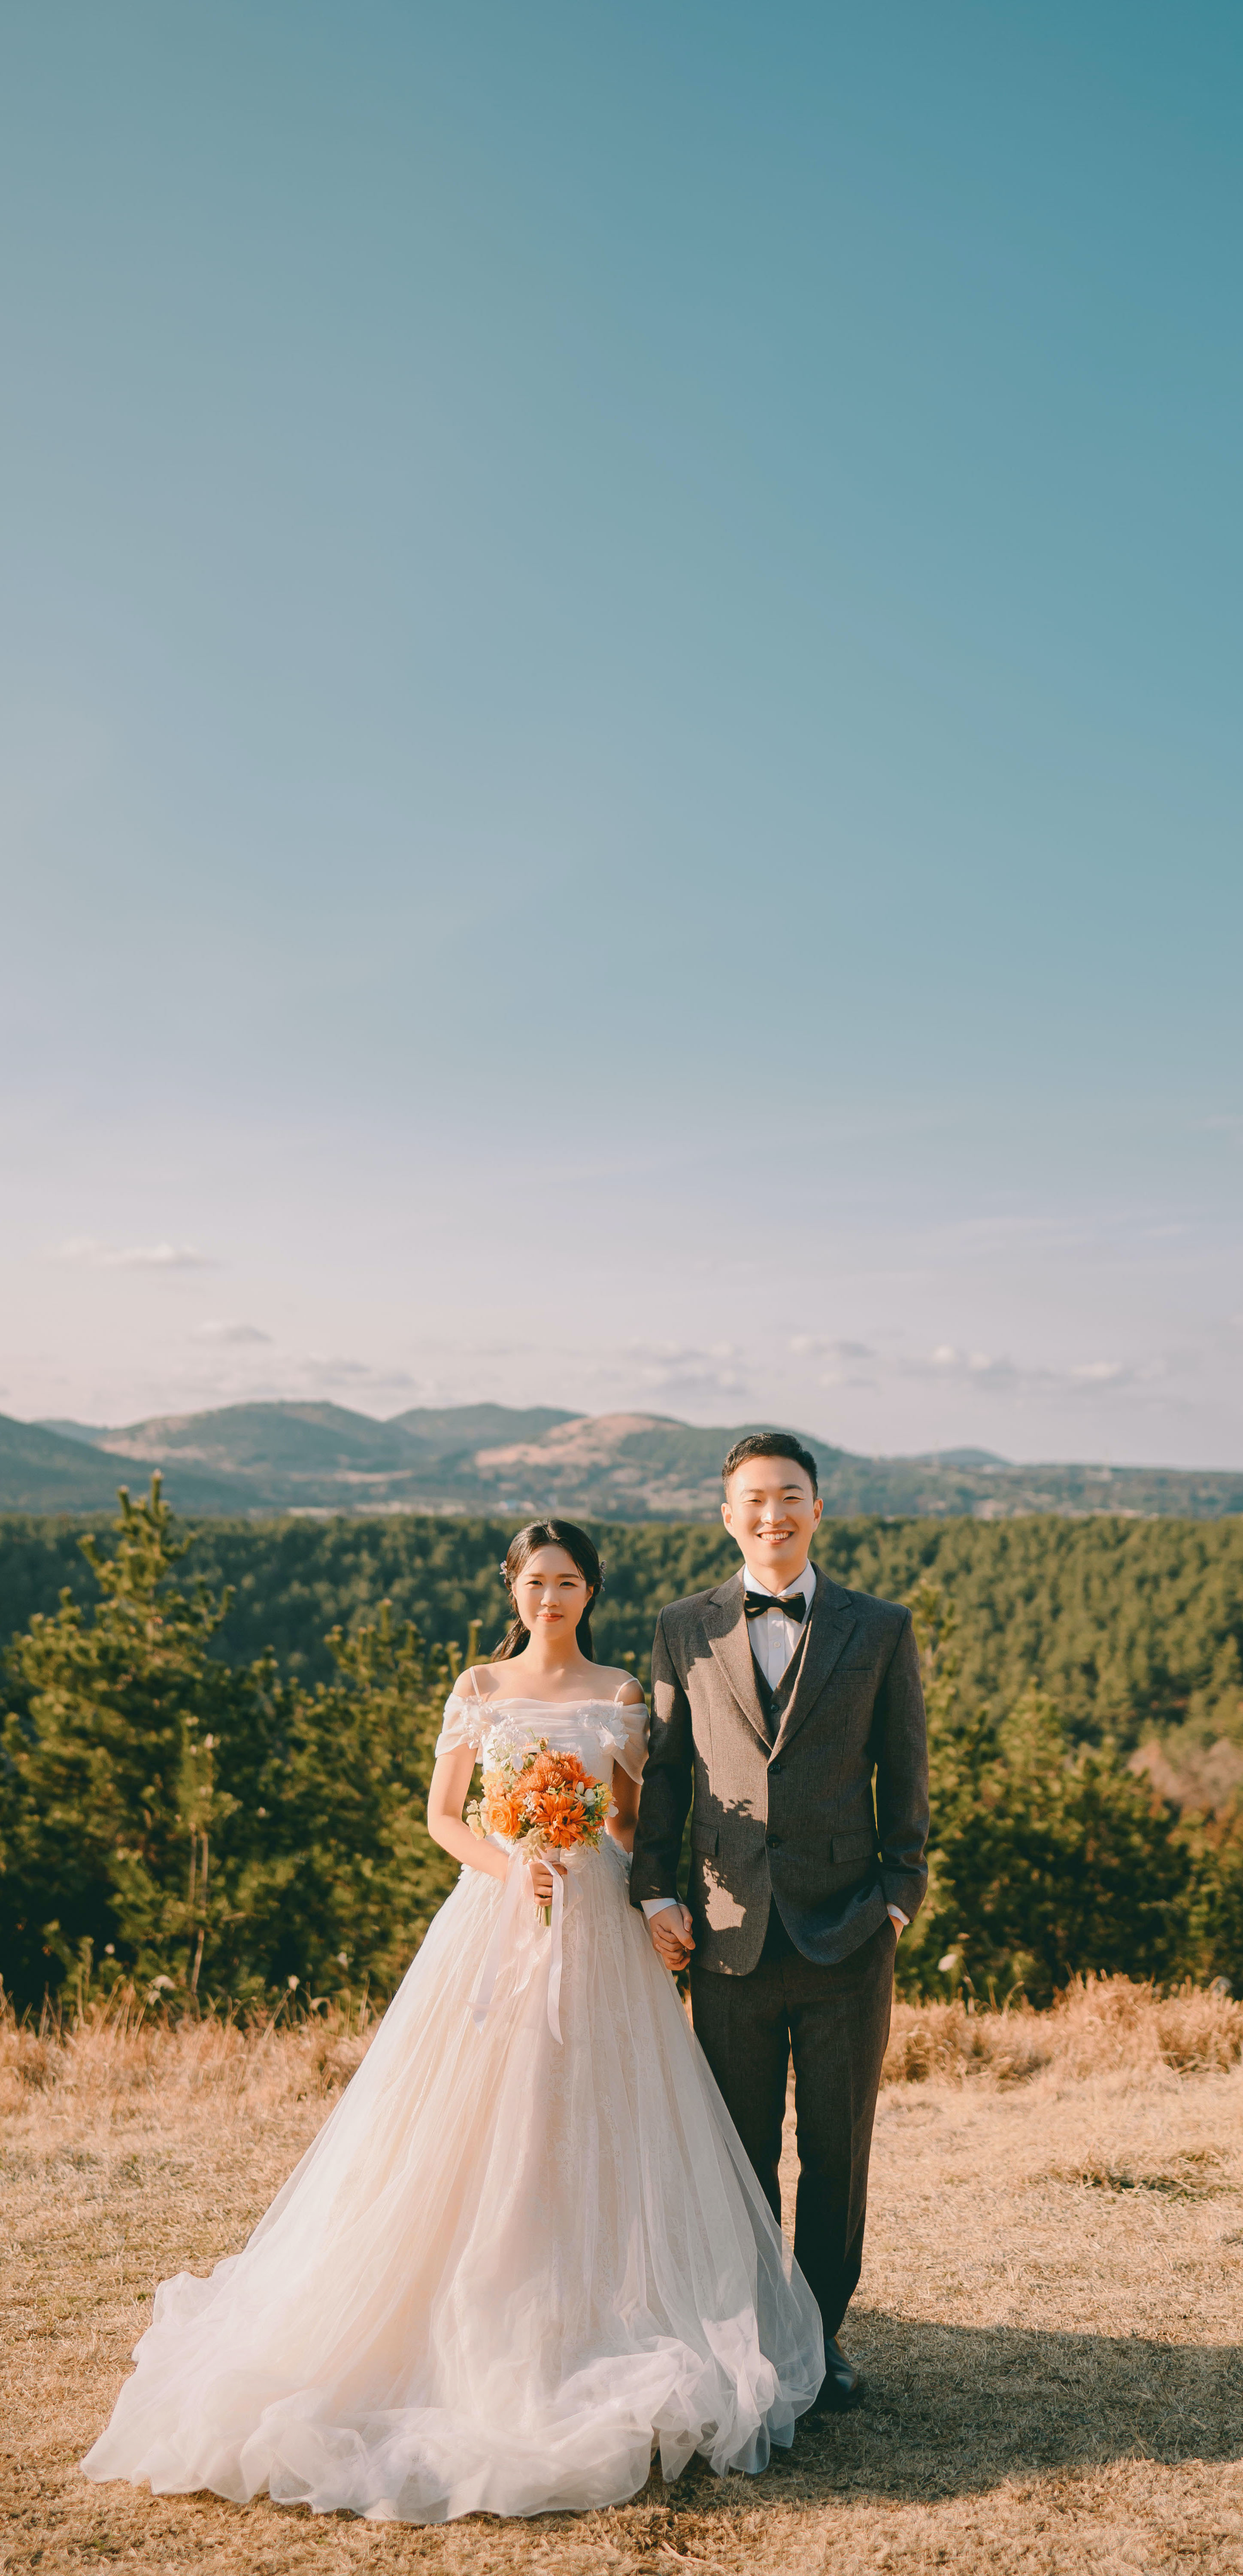
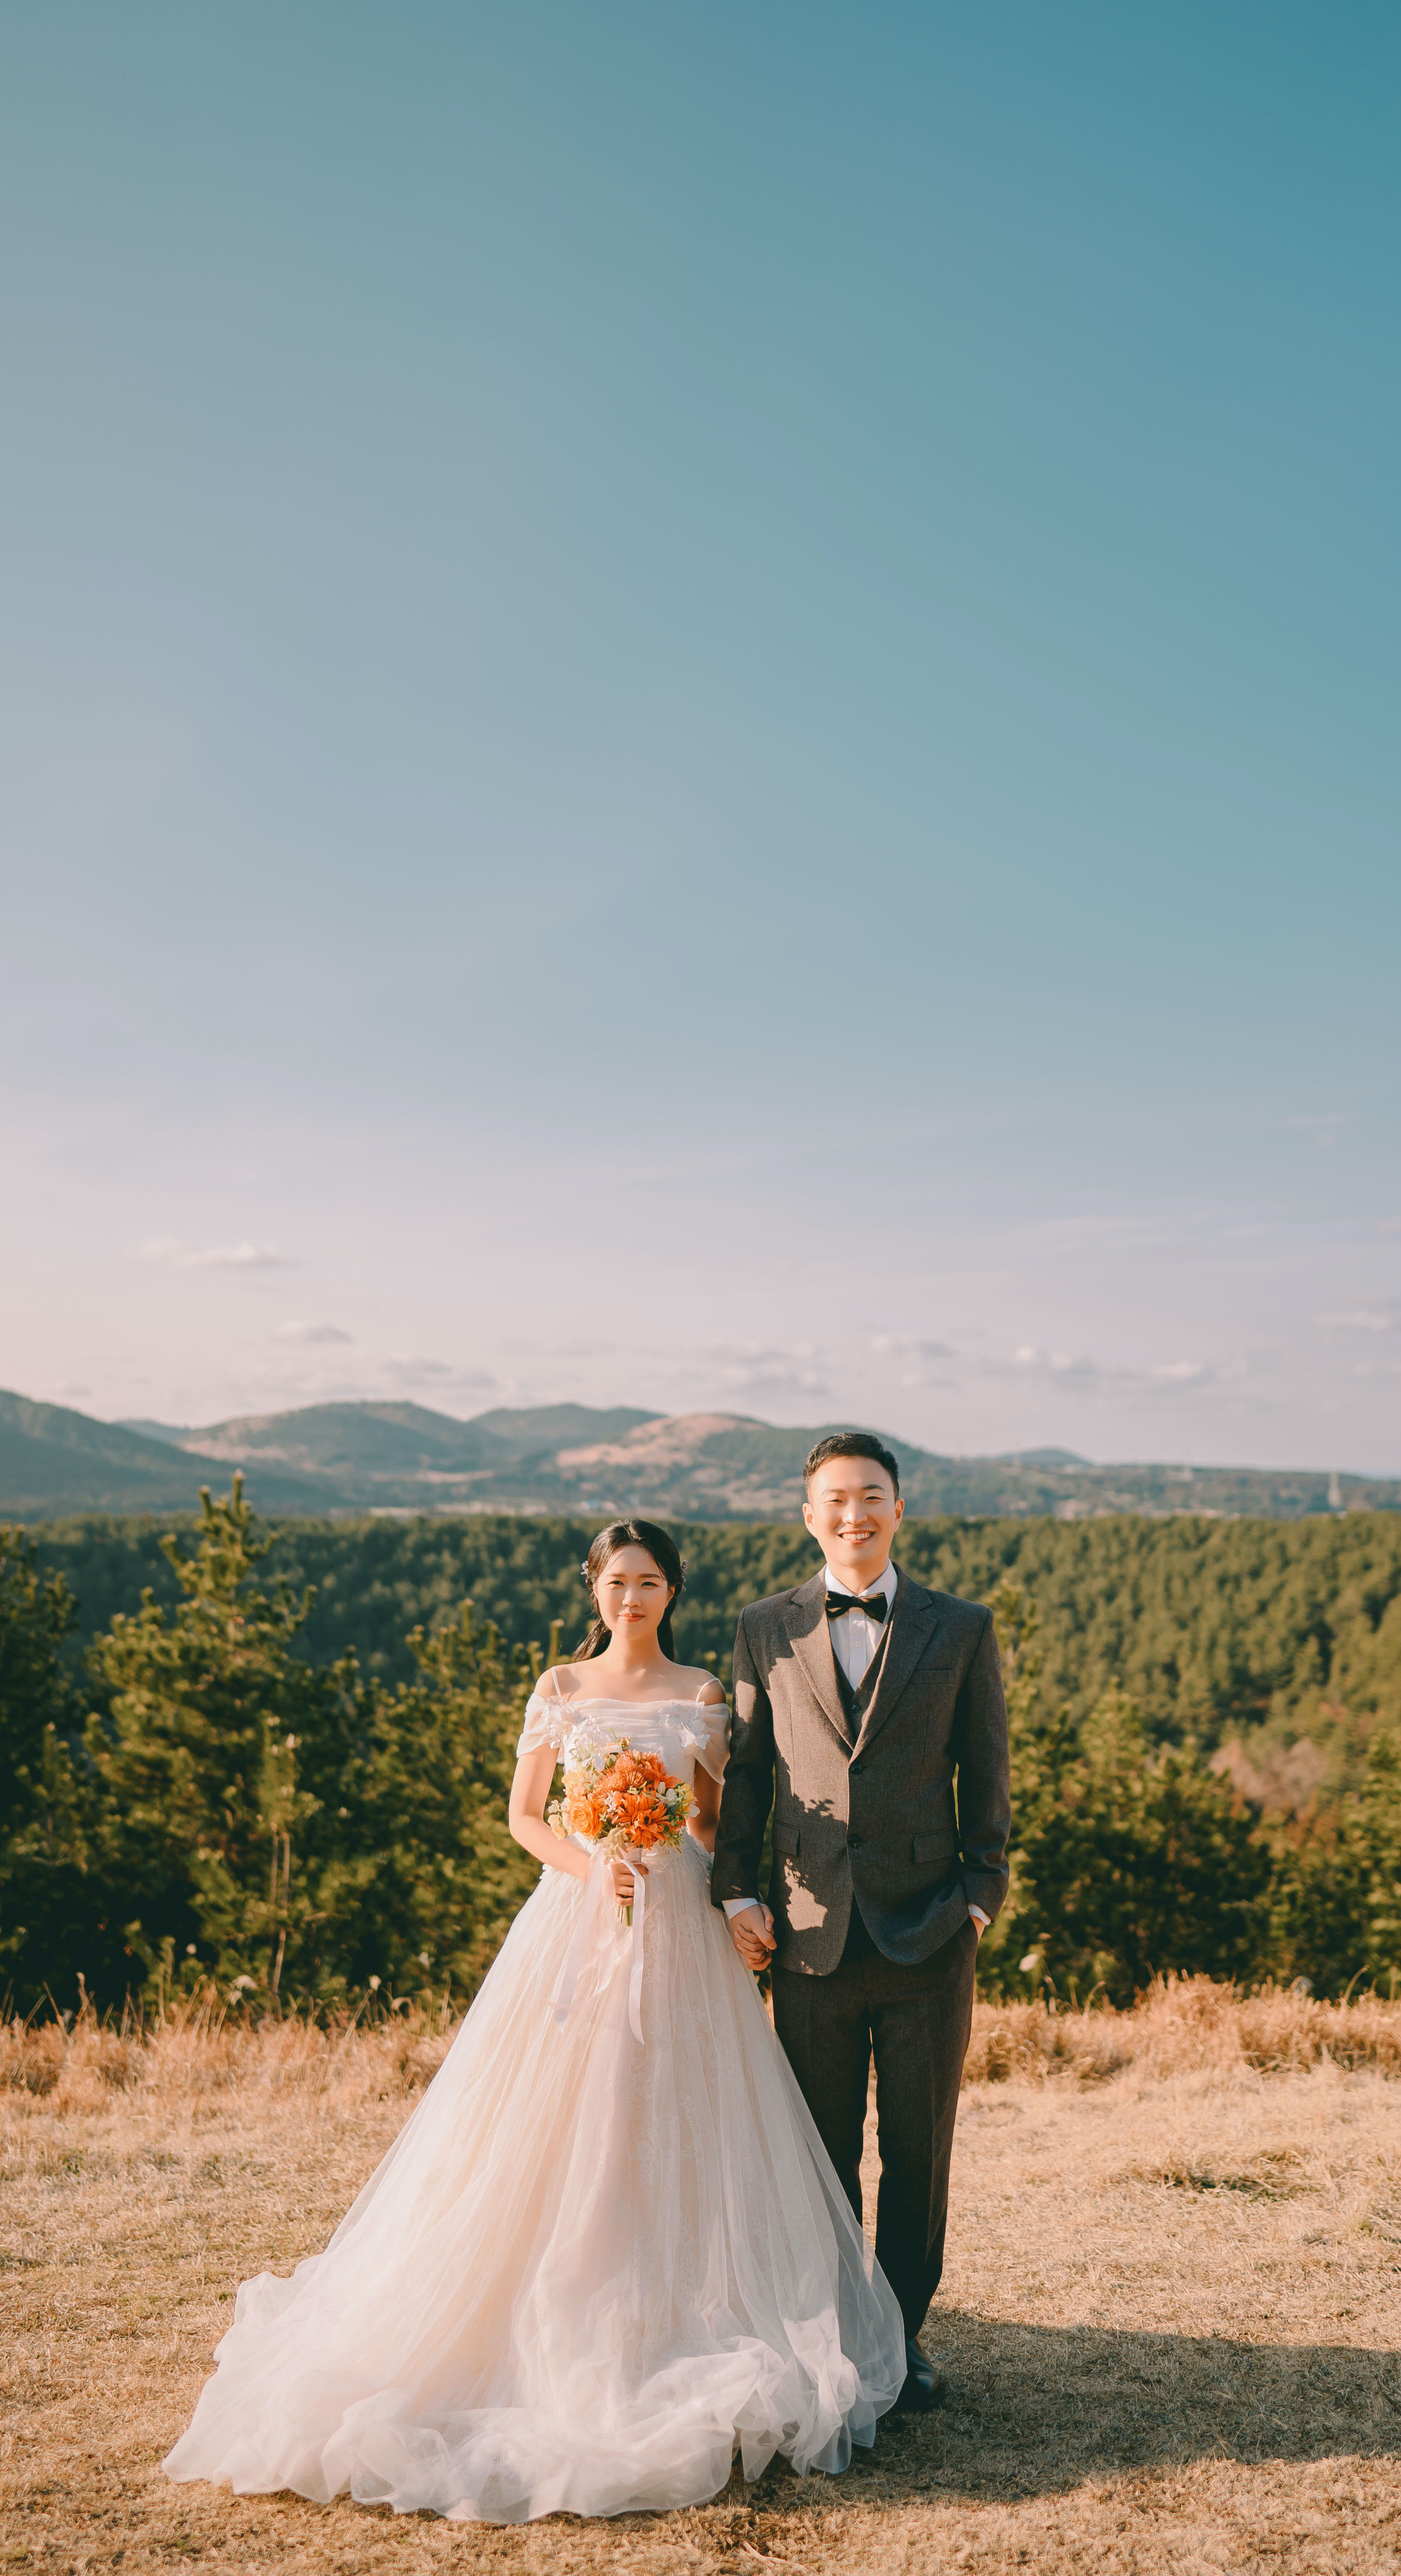
.

Changed region(s): [[0.0, 0.5298, 1.0, 1.0]]

diff --git a/index.html b/index.html
@@ -206,7 +206,7 @@
 
 
         <!-- section -->
-        <section class="gla_section gla_image_bck gla_fixed gla_wht_txt" data-stellar-background-ratio="0.2"  data-image="jeju/TIO04676edit copy.jpg"  style="background-image: url(&quot;jeju/TIO04676edit copy.jpg&quot;); background-attachment: fixed; background-position: 50% -84px;">
+        <section class="gla_section gla_image_bck gla_fixed gla_wht_txt" data-stellar-background-ratio="0.2"  data-image="jeju/TIO04676edit.jpg"  style="background-image: url(&quot;jeju/TIO04676edit.jpg&quot;); background-attachment: fixed; background-position: 50% -84px;">
             
             <!-- Over -->
             <div class="gla_over" data-color="#1e1d2d" data-opacity="0.4"></div>
